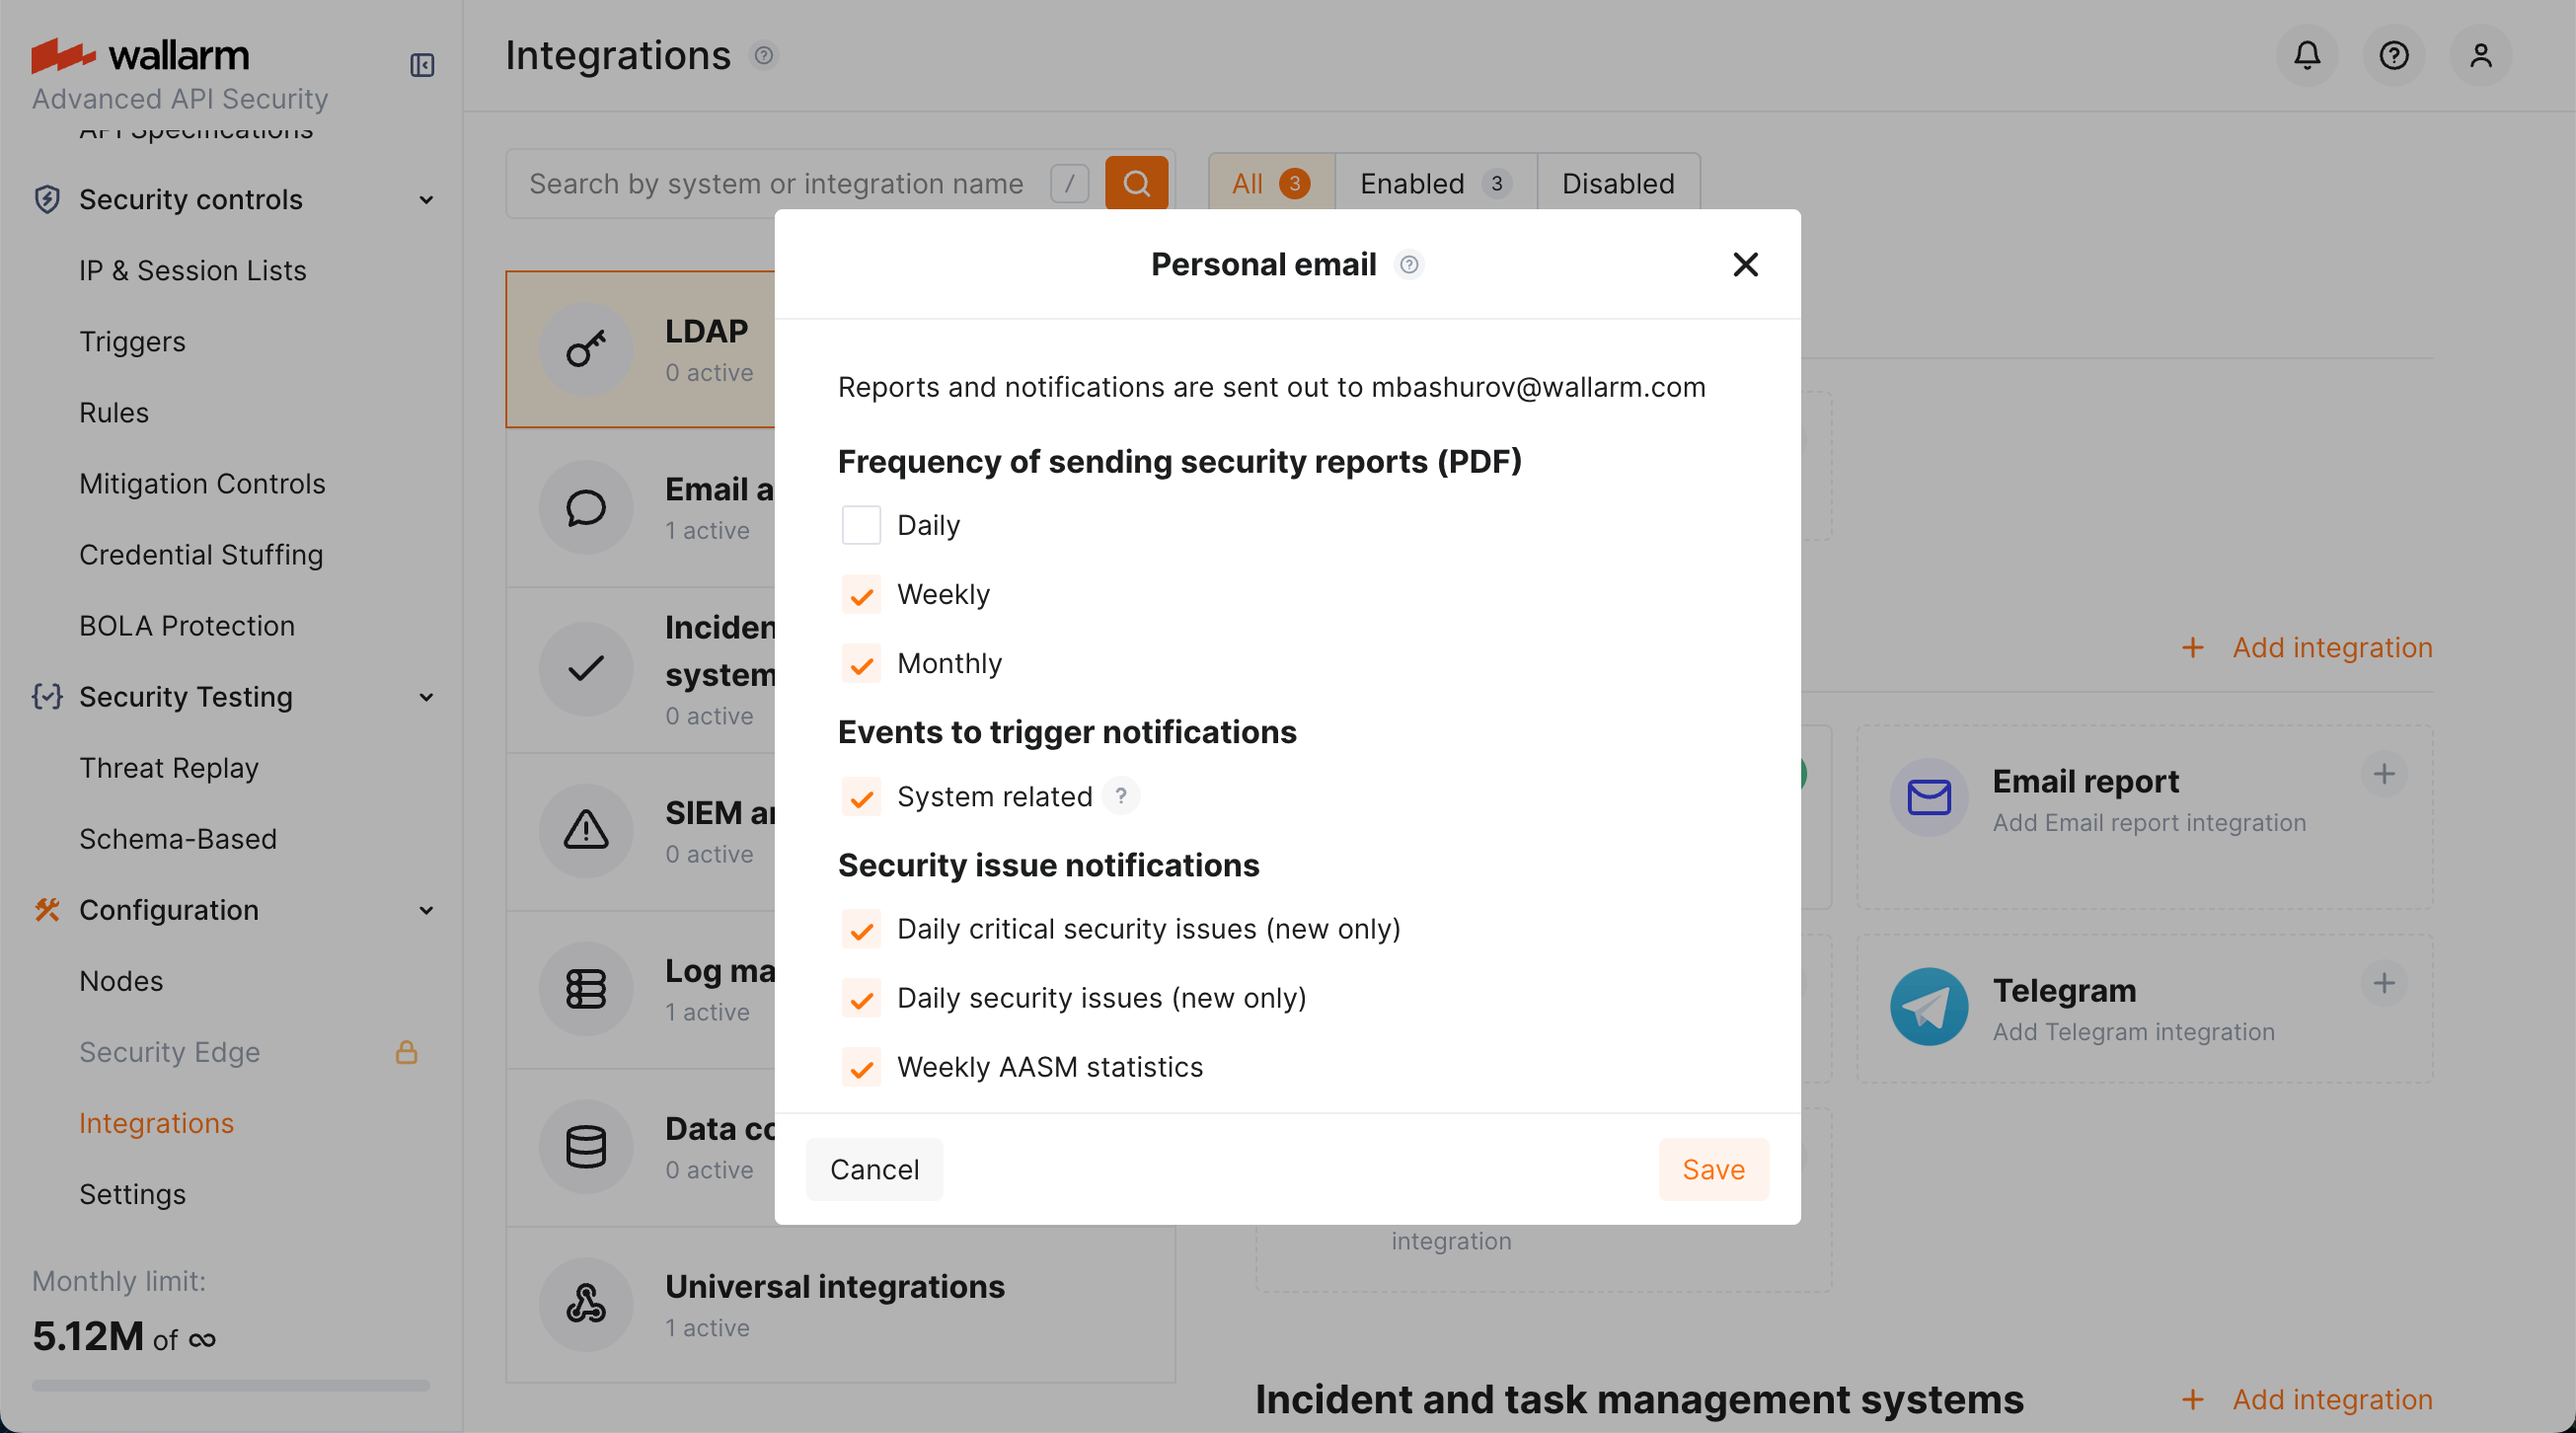
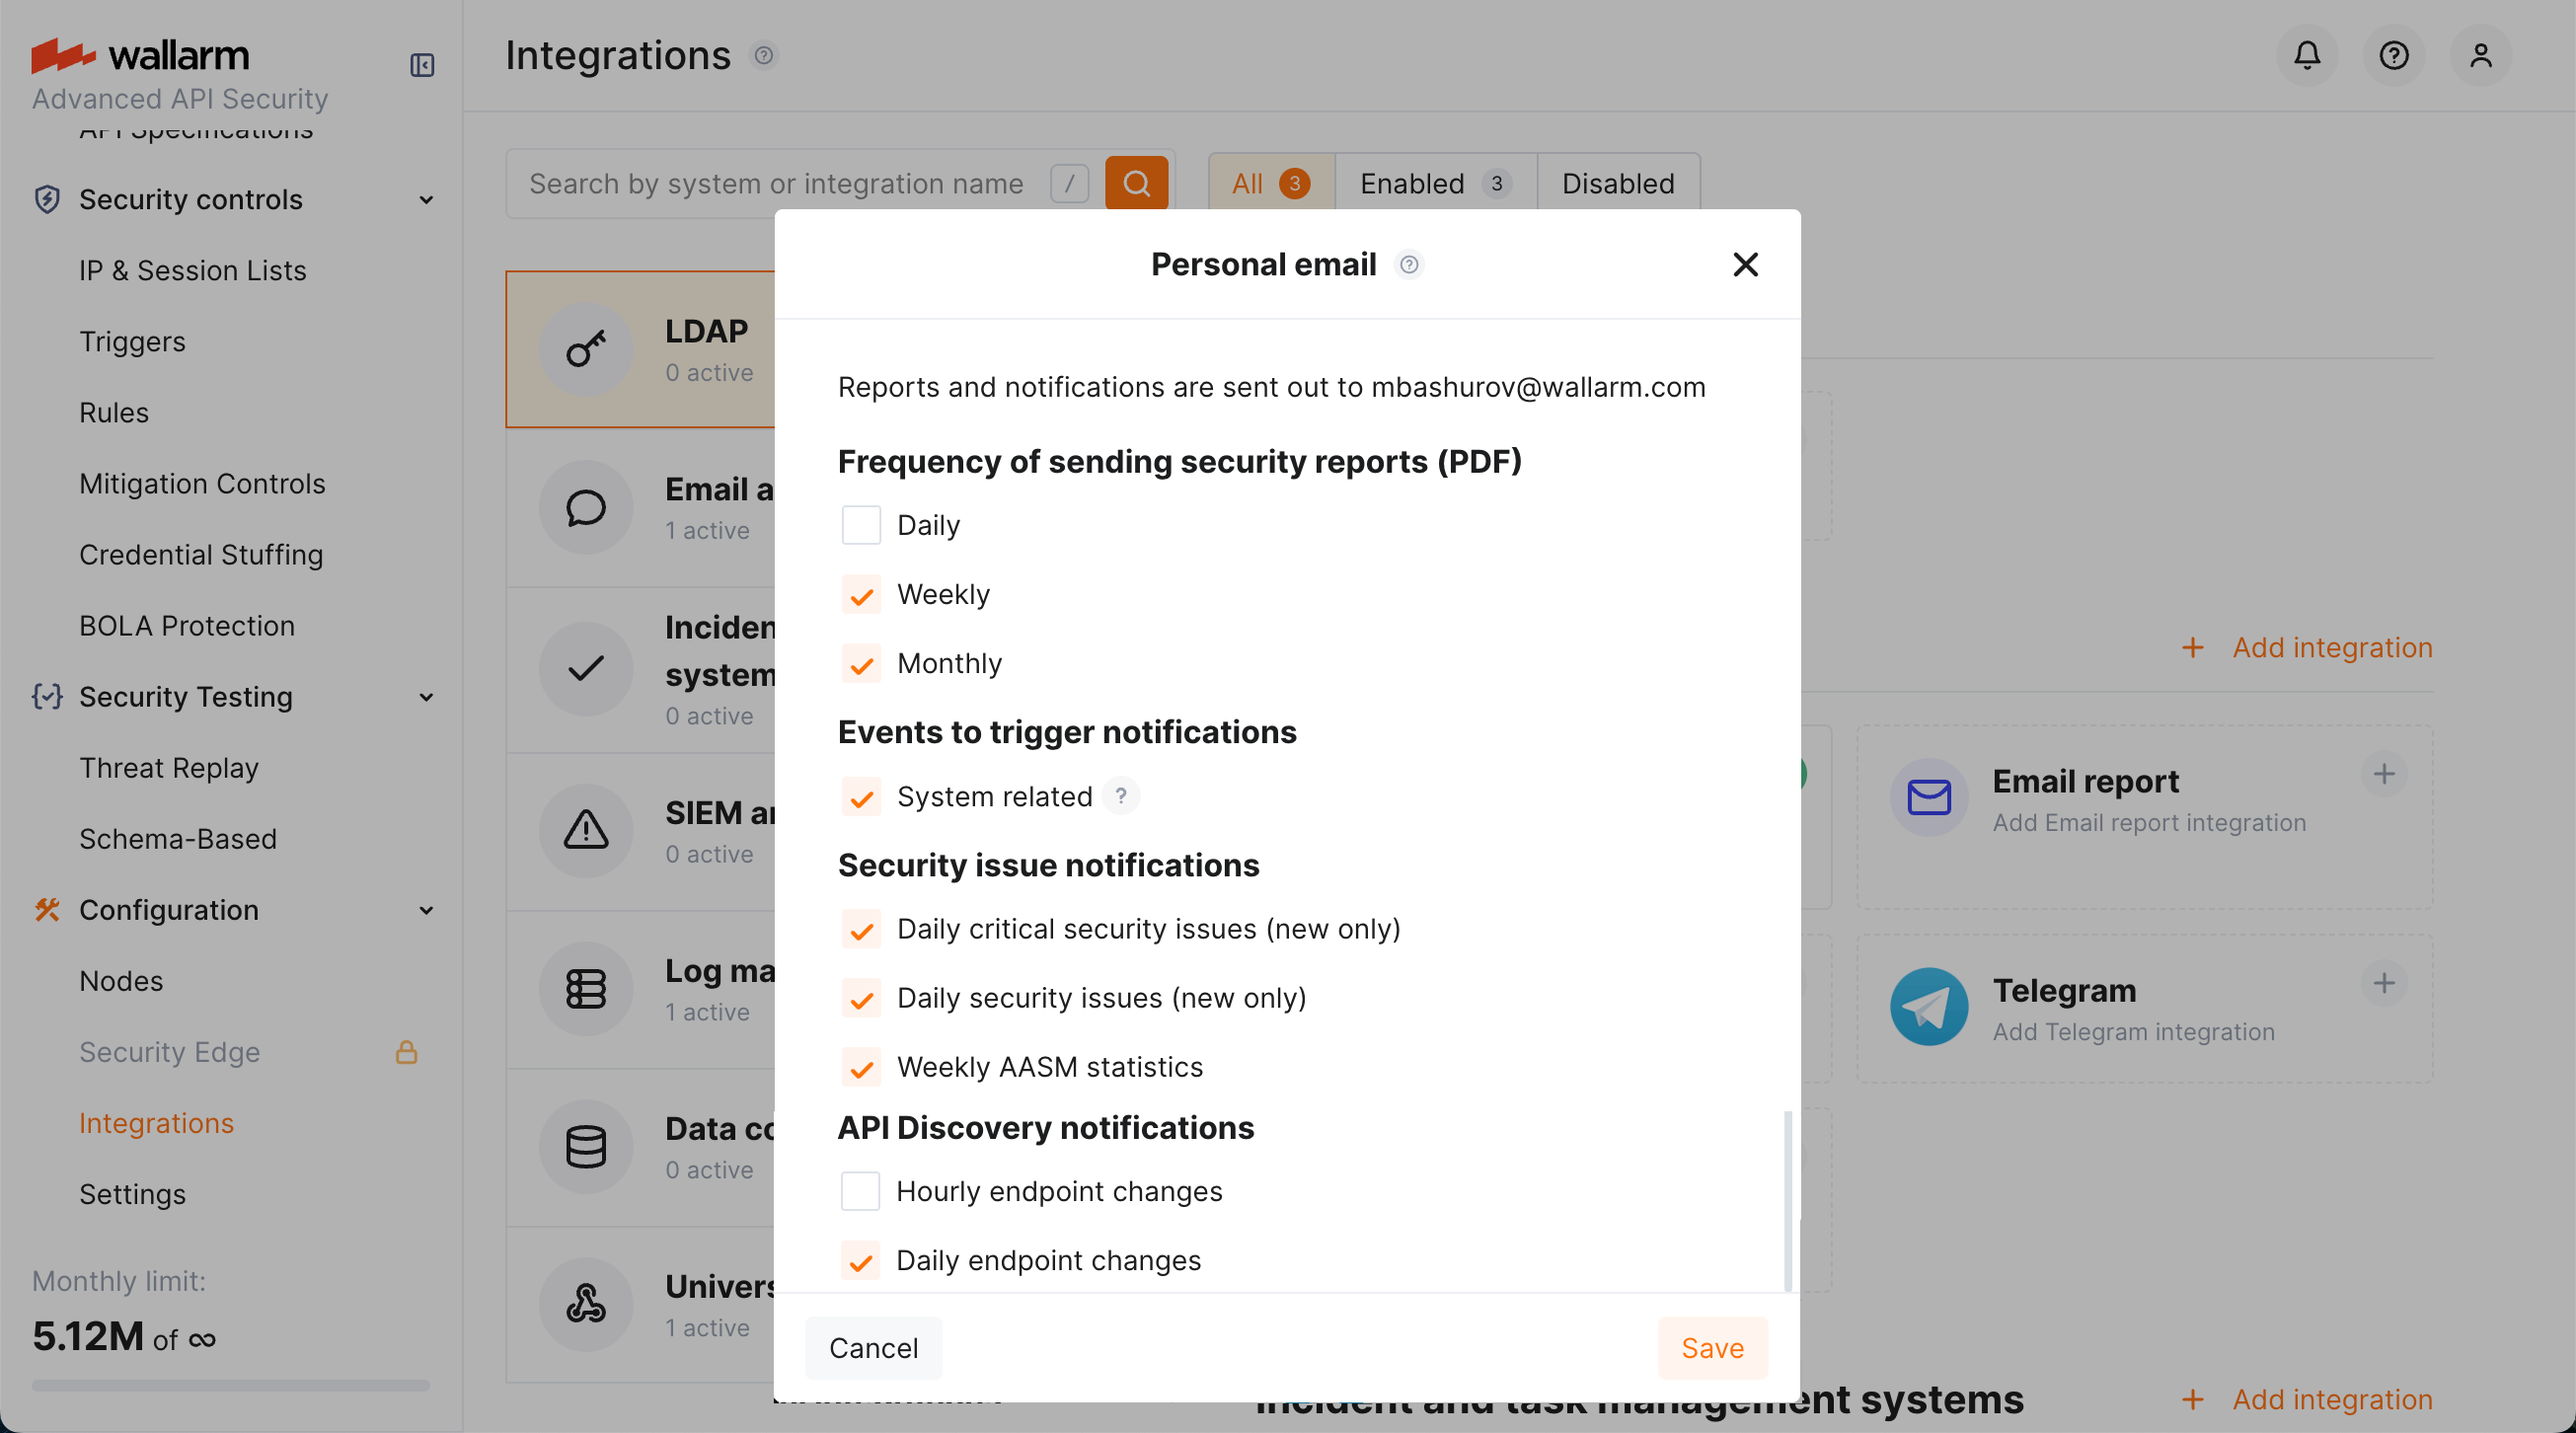
DOCS-3707 New APID notifications

Changed region(s): [[0.2793, 0.7748, 0.7138, 0.9917]]

diff --git a/docs/latest/api-attack-surface/setup.md b/docs/latest/api-attack-surface/setup.md
@@ -191,7 +191,7 @@ Navigate back from configuration dialog to the main **API Attack Surface** scree
 
 You automatically receive notifications to your personal email (the one you use to log in) about discovered hosts and security issues in a **Weekly AASM statistics** - information about hosts, APIs, and statistics for security issues discovered for your configured domains within last week.
 
-The notifications are enabled by default. You can unsubscribe at any moment and configure any additional emails to get all or some of these notifications in Wallarm Console → **Configuration** → **Integrations** → **Email and messengers** → **Personal email** (you email) or **Email report** (extra emails) as described [here][link-integrations-email].
+The notifications are enabled by default. You can unsubscribe at any moment and configure any additional emails to get all or some of these notifications in Wallarm Console → **Configuration** → **Integrations** → **Email and messengers** → **Personal email** (your email) or **Email report** (extra emails) as described [here][link-integrations-email].
 
 Additionally, the notifications about security issues detected by [all methods](../about-wallarm/detecting-vulnerabilities.md#detection-methods), including AASM, can be received. This includes:
 

diff --git a/include/api-attack-surface/aasm-notifications.md b/include/api-attack-surface/aasm-notifications.md
@@ -6,7 +6,7 @@ You automatically receive notifications to your personal email (the one you use 
 * **Daily security issues (new only)** - statistics for security issues opened for the day, sent once a day with information on how many issues of every [risk level][link-aasm-security-issue-risk-level] were found and general action items for mitigation.
 * **Weekly AASM statistics** - information about hosts, APIs, and statistics for security issues discovered for your configured domains within last week.
 
-The notifications are enabled by default. You can unsubscribe at any moment and configure any additional emails to get all or some of these notifications in Wallarm Console → **Configuration** → **Integrations** → **Email and messengers** → **Personal email** (you email) or **Email report** (extra emails) as described [here][link-integrations-email].
+The notifications are enabled by default. You can unsubscribe at any moment and configure any additional emails to get all or some of these notifications in Wallarm Console → **Configuration** → **Integrations** → **Email and messengers** → **Personal email** (your email) or **Email report** (extra emails) as described [here][link-integrations-email].
 
 ### Instant notification
 

diff --git a/docs/latest/api-discovery/setup.md b/docs/latest/api-discovery/setup.md
@@ -49,6 +49,21 @@ To view the current configuration and perform changes, in Wallarm Console, go to
 
 [See details here →](sensitive-data.md#customizing-sensitive-data-detection)
 
+## Notifications
+
+You can setup API Discovery notifications to be sent to your personal email (the one you use to log in) and to any additional emails:
+
+1. Access Wallarm Console → **Configuration** → **Integrations** → **Email and messengers**:
+
+    * → **Personal email**, to setup notifications to your email
+    * → **Email report**, to setup notifications to additional emails
+
+        Learn more about working with [email integrations](../user-guides/settings/integrations/email.md).
+
+1. In the **API Discovery notifications** section select notifications you want to get (hourly or daily notifications on [new and changed](track-changes.md#highlighting-changes-in-api) endpoints).
+
+    ![API Discovery - email notification settings](../images/about-wallarm-waf/api-discovery-2.0/api-discovery-notifications.png)
+
 ## Debug
 
 To get and analyze the API Discovery logs, you can read the log file `/opt/wallarm/var/log/wallarm/appstructure-out.log` on the Linux machine where the node is running.

diff --git a/docs/latest/user-guides/vulnerabilities.md b/docs/latest/user-guides/vulnerabilities.md
@@ -200,7 +200,7 @@ Additionally, information about security issues found specifically by [API Attac
 
 * **Weekly AASM statistics** - information about hosts, APIs, and statistics for security issues discovered for your configured domains within last week.
 
-The notifications are enabled by default. You can unsubscribe at any moment and configure any additional emails to get all or some of these notifications in Wallarm Console → **Configuration** → **Integrations** → **Email and messengers** → **Personal email** (you email) or **Email report** (extra emails) as described [here][link-integrations-email].
+The notifications are enabled by default. You can unsubscribe at any moment and configure any additional emails to get all or some of these notifications in Wallarm Console → **Configuration** → **Integrations** → **Email and messengers** → **Personal email** (your email) or **Email report** (extra emails) as described [here][link-integrations-email].
 
 ### Instant notification
 

diff --git a/docs/latest/api-discovery/track-changes.md b/docs/latest/api-discovery/track-changes.md
@@ -32,6 +32,15 @@ In the **Status** column for endpoints and parameters, API Discovery provides da
 
 Use **Changed since** filter to only see endpoints changed in specific time period, for example, today.
 
+## Notifications
+
+You can [setup](setup.md#notifications) API Discovery notifications to be sent to your personal email (the one you use to log in) and to any additional emails:
+
+* Daily endpoint changes
+* Hourly endpoint changes
+
+The notification will include both changed and new endpoints. By default, the notification is disabled.
+
 <!--## Getting notified
 
 To get immediate notifications about changes in API to your messenger, SIEM or log management system, configure [triggers](../user-guides/triggers/triggers.md) with the **Changes in API** condition.

diff --git a/include/integrations/events-for-integrations-mail.md b/include/integrations/events-for-integrations-mail.md
@@ -7,3 +7,6 @@
     * Daily critical security issues (new only) found by [all methods](../../../about-wallarm/detecting-vulnerabilities.md#detection-methods)
     * Daily security issues (new only) found by [all methods](../../../about-wallarm/detecting-vulnerabilities.md#detection-methods)
     * Weekly [AASM](../../../api-attack-surface/overview.md) statistics including security issues [found for the discovered hosts](../../../api-attack-surface/security-issues.md) (available with API Attack Surface [subscription plan](../../../../about-wallarm/subscription-plans/#api-attack-surface) only)
+* [API Discovery](../../../api-discovery/overview.md) notifications:
+    * Daily endpoint changes
+    * Hourly endpoint changes

diff --git a/docs/latest/api-discovery/exploring.md b/docs/latest/api-discovery/exploring.md
@@ -144,6 +144,15 @@ You can download the report on your API inventory in CSV format:
     !!! info "No parameter information"
         The report does not include the information on API endpoint parameters.
 
+## Notifications
+
+You can [setup](setup.md#notifications) API Discovery notifications to be sent to your personal email (the one you use to log in) and to any additional emails:
+
+* Daily endpoint changes
+* Hourly endpoint changes
+
+The notification will include both [changed and new](track-changes.md) endpoints. By default, the notification is disabled.
+
 <!--## Creating rules for API endpoints
 
 You can quickly create a new [custom rule](../user-guides/rules/rules.md) from any endpoint of API inventory: 
